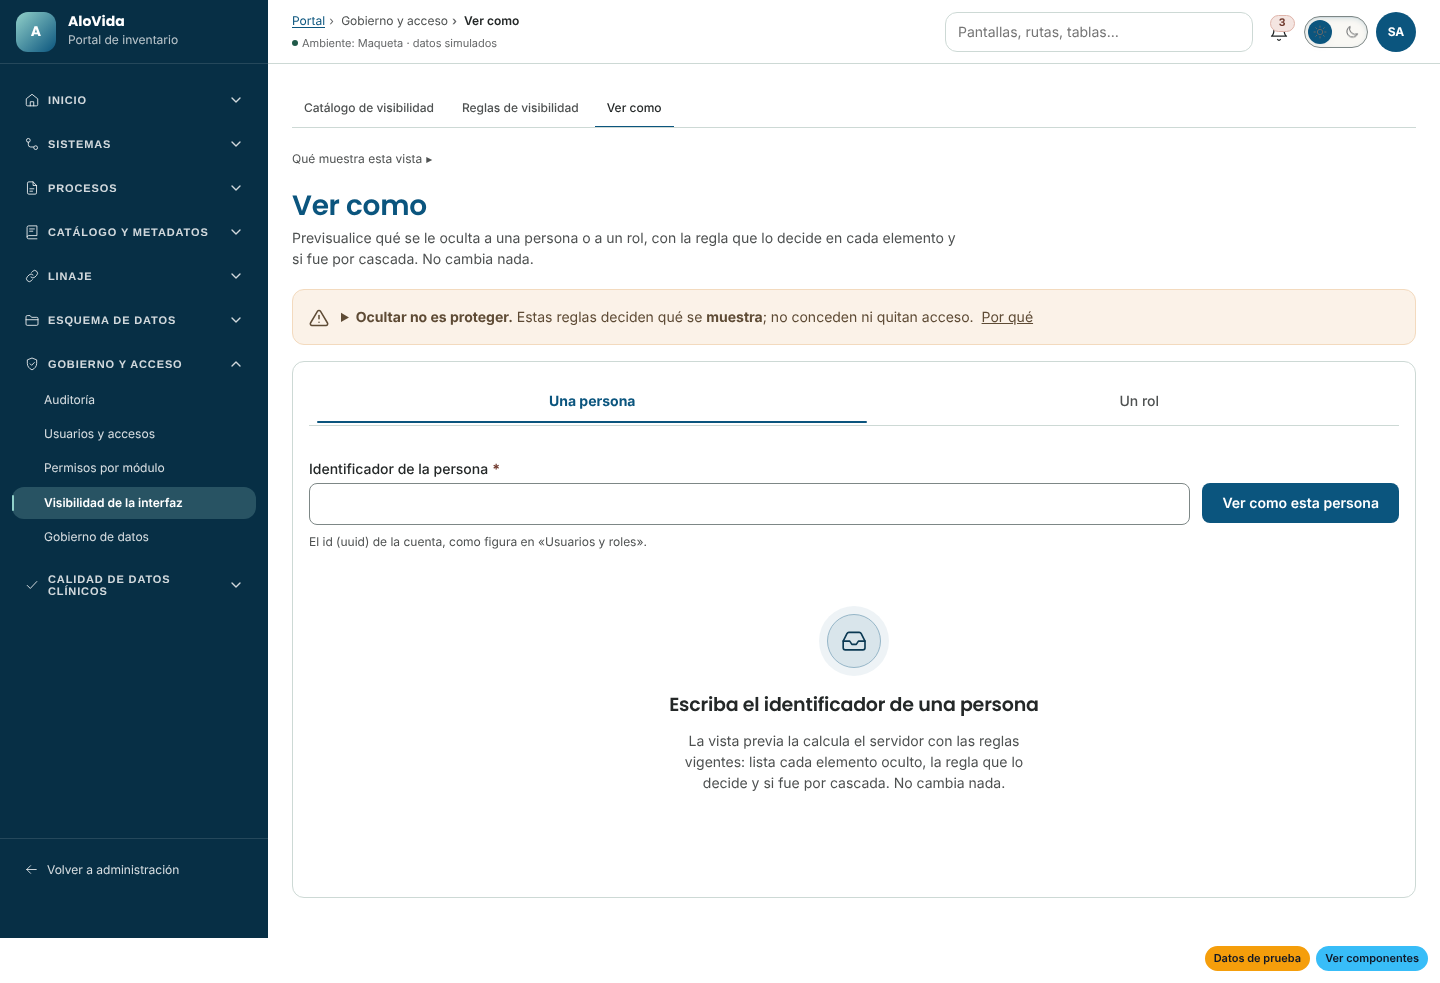
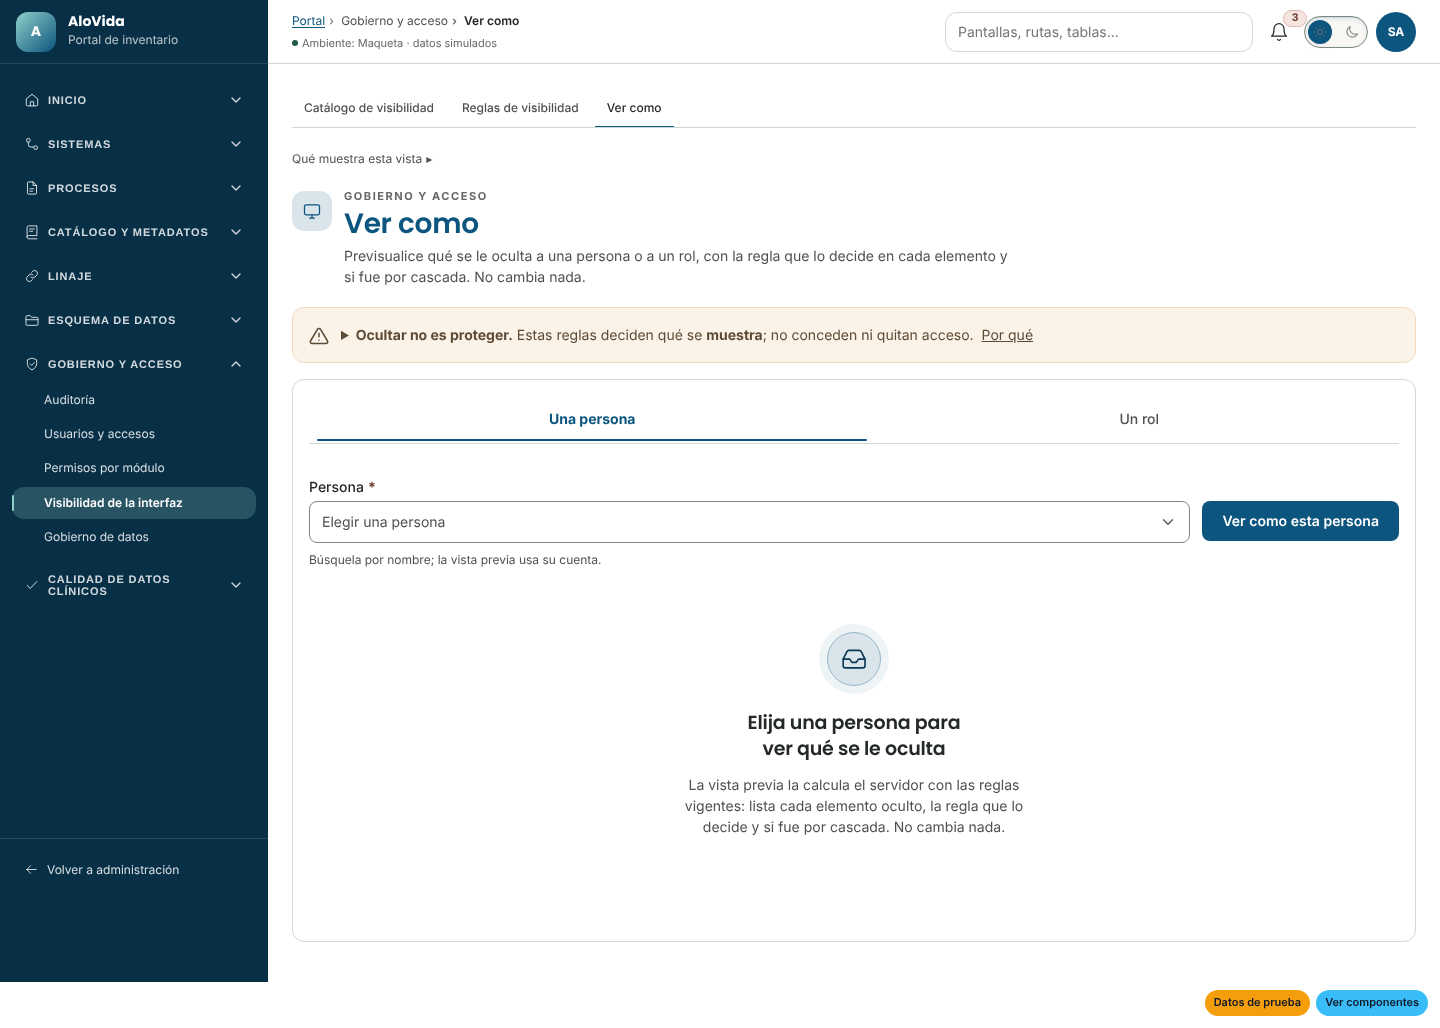
fix(portal): «Ver como» — la persona se elige por nombre y el rol se ve con su nombre (revisión visual 1)
- Selector buscable de personas internas (el mismo listado que el simulador de «Quién puede
  qué»); si no llega, vuelve a pedir el identificador a mano. Spec nueva que lo prueba.
- KPIs con icono, en dos columnas (la primera a lo ancho) hasta 1024 px.
- Simulador: PHARMACY_STAFF («Personal de farmacia») entre los roles de /authz/roles, que
  usan las reglas sintéticas de visibilidad.

Claude-Session: https://claude.ai/code/session_015srVoda962hL6gd5RrH9vw

diff --git a/src/app/features/admin/portal/visibility/preview/preview-panel.ts b/src/app/features/admin/portal/visibility/preview/preview-panel.ts
@@ -98,6 +98,17 @@ export class PreviewPanel {
     if (options === null || target === '' || options.some((o) => o.value === target)) return options;
     return [...options, { value: target, label: `${target} (no figura entre los roles asignables)` }];
   });
+  /**
+   * Las personas internas, para elegir por nombre (el mismo listado que usa el simulador de
+   * «Quién puede qué»). Si no llega, el campo vuelve a pedir el identificador a mano.
+   */
+  private readonly users = signal<readonly SelectOption<string>[] | null>(null);
+  protected readonly userOptions = computed<readonly SelectOption<string>[] | null>(() => {
+    const options = this.users();
+    const target = this.target();
+    if (options === null || target === '' || options.some((o) => o.value === target)) return options;
+    return [...options, { value: target, label: `${target} (no figura en el listado de personas)` }];
+  });
   protected readonly subjectName = (label: string): string =>
     this.mode() === 'ROLE' ? (this.roleNames().get(label) ?? label) : label;
   protected readonly state = signal<ViewState<readonly PreviewRow[]> | null>(null);
@@ -114,11 +125,13 @@ export class PreviewPanel {
 
   protected readonly copy = computed(() =>
     this.mode() === 'USER'
-      ? {
-          label: 'Identificador de la persona',
-          hint: 'El id (uuid) de la cuenta, como figura en «Usuarios y roles».',
-          action: 'Ver como esta persona',
-        }
+      ? this.users() !== null
+        ? { label: 'Persona', hint: 'Búsquela por nombre; la vista previa usa su cuenta.', action: 'Ver como esta persona' }
+        : {
+            label: 'Identificador de la persona',
+            hint: 'El id (uuid) de la cuenta, como figura en «Usuarios y roles».',
+            action: 'Ver como esta persona',
+          }
       : { label: 'Rol', hint: 'Qué le queda oculto a quien tenga este rol y nada más.', action: 'Ver como este rol' },
   );
 
@@ -181,7 +194,21 @@ export class PreviewPanel {
       },
       error: () => this.roles.set(null),
     });
-    inject(DestroyRef).onDestroy(() => rolesSub.unsubscribe());
+    const usersSub = this.authz.internalUsers({ limit: 200 }).subscribe({
+      next: (page) =>
+        this.users.set(
+          page.items.length === 0
+            ? null
+            : [...page.items]
+                .sort((a, b) => a.displayName.localeCompare(b.displayName, 'es'))
+                .map((u) => ({ value: u.id, label: u.displayName })),
+        ),
+      error: () => this.users.set(null),
+    });
+    inject(DestroyRef).onDestroy(() => {
+      rolesSub.unsubscribe();
+      usersSub.unsubscribe();
+    });
     effect(() => {
       const preset = this.preset();
       untracked(() => {

diff --git a/src/app/features/admin/portal/visibility/preview/ui-preview-page.spec.ts b/src/app/features/admin/portal/visibility/preview/ui-preview-page.spec.ts
@@ -63,7 +63,8 @@ describe('UiPreviewPage', () => {
   let harness: RouterTestingHarness;
   let http: HttpTestingController;
 
-  async function open(url = SCREEN): Promise<void> {
+  /** Por omisión el listado de personas llega vacío: el campo pide el identificador a mano. */
+  async function open(url = SCREEN, people: readonly { id: string; displayName: string }[] = []): Promise<void> {
     TestBed.configureTestingModule({
       providers: [
         provideHttpClient(),
@@ -76,6 +77,13 @@ describe('UiPreviewPage', () => {
     await harness.navigateByUrl(url, UiPreviewPage);
     harness.detectChanges();
     http.match((r) => r.url === ELEMENTS).forEach((r) => r.flush({ items: ELEMENT_LIST, nextCursor: null, total: 4 }));
+    http.match((r) => r.url === '/authz/internal-users').forEach((r) =>
+      r.flush({
+        items: people.map((p) => ({ ...p, statusConceptId: 'active', globalRoles: [], assignments: [] })),
+        nextCursor: null,
+        total: people.length,
+      }),
+    );
     http.match('/authz/roles').forEach((r) =>
       r.flush([{ id: 'r-ph', code: 'PHARMACY_STAFF', name: 'Personal de farmacia', isSystem: true, tenantId: null }]),
     );
@@ -112,6 +120,24 @@ describe('UiPreviewPage', () => {
     http.expectNone((r) => r.url === PREVIEW);
     expect(byTestId('visibility-notice')!.textContent).toContain('Ocultar no es proteger');
     expect(text()).toContain('Ver como esta persona');
+  });
+
+  it('con el listado de personas, se elige por nombre (no se pide el uuid) y se consulta su userId', async () => {
+    await open(SCREEN, [
+      { id: USER_ID, displayName: 'Persona sintética (SIMULADO)' },
+      { id: '00000000-0000-4000-8000-00000000c003', displayName: 'Otra persona (SIMULADO)' },
+    ]);
+    expect(text()).toContain('Persona');
+    expect(text()).not.toContain('Identificador de la persona');
+    expect(root().querySelector('input[data-testid="preview-target-USER"]')).toBeNull();
+    panel().target.set(USER_ID);
+    panel().run();
+    const req = http.expectOne((r) => r.url === PREVIEW);
+    expect(req.request.params.get('userId')).toBe(USER_ID);
+    req.flush(PREVIEW_BODY);
+    http.match((x) => x.url === RULES).forEach((r) => r.flush({ items: [WINNER], nextCursor: null, total: 1 }));
+    harness.detectChanges();
+    expect(byTestId('preview-summary')!.textContent).toContain('Persona sintética (SIMULADO)');
   });
 
   it('por persona: manda userId, y para cada oculto muestra la regla ganadora y la cascada con su ancestro', async () => {

diff --git a/src/app/features/admin/portal/visibility/preview/preview-panel.html b/src/app/features/admin/portal/visibility/preview/preview-panel.html
@@ -3,6 +3,16 @@
     <app-form-field [label]="copy().label" [required]="true" [hint]="copy().hint" [errorMessage]="problem()">
       @if (mode() === 'ROLE' && roleOptions(); as options) {
         <app-select [ariaLabel]="copy().label" [options]="options" [value]="target() === '' ? null : target()" (valueChange)="setTarget($event ?? '')" />
+      } @else if (mode() === 'USER' && userOptions(); as options) {
+        <app-select
+          [ariaLabel]="copy().label"
+          placeholder="Elegir una persona"
+          [searchable]="true"
+          [options]="options"
+          [value]="target() === '' ? null : target()"
+          [attr.data-testid]="'preview-target-USER'"
+          (valueChange)="setTarget($event ?? '')"
+        />
       } @else {
         <app-input
           [ariaLabel]="copy().label"
@@ -23,11 +33,12 @@
     <section class="preview__metrics" aria-label="Resumen de lo que ve" data-testid="preview-summary">
       <app-metric-card
         label="Mirando como"
+        icon="eye"
         [value]="subjectName(s.label)"
         [hint]="mode() === 'ROLE' && subjectName(s.label) !== s.label ? 'Rol ' + s.label : ''"
       />
-      <app-metric-card label="Ocultos" [value]="s.hidden" [tone]="s.hidden > 0 ? 'warning' : 'success'" hint="Elementos que no se le presentan" />
-      <app-metric-card label="Por cascada" [value]="s.byCascade" hint="Ocultos porque un elemento superior lo está" />
+      <app-metric-card label="Ocultos" icon="eye-off" [value]="s.hidden" [tone]="s.hidden > 0 ? 'warning' : 'success'" hint="Elementos que no se le presentan" />
+      <app-metric-card label="Por cascada" icon="network" [value]="s.byCascade" hint="Ocultos porque un elemento superior lo está" />
     </section>
     <p class="vis__hint">
       Es una vista previa del servidor: no cambia nada. Los permisos de la persona no cambian por esto; un elemento
@@ -42,7 +53,7 @@
     <!-- Antes de consultar: qué hace esta pestaña y qué hacer, no un hueco en blanco. -->
     <app-empty-state
       data-testid="preview-idle"
-      [title]="mode() === 'ROLE' ? 'Elija un rol para ver qué se le oculta' : 'Escriba el identificador de una persona'"
+      [title]="mode() === 'ROLE' ? 'Elija un rol para ver qué se le oculta' : 'Elija una persona para ver qué se le oculta'"
       description="La vista previa la calcula el servidor con las reglas vigentes: lista cada elemento oculto, la regla que lo decide y si fue por cascada. No cambia nada."
     />
   }

diff --git a/src/app/core/mock/handlers/governance.handlers.ts b/src/app/core/mock/handlers/governance.handlers.ts
@@ -109,6 +109,15 @@ const ROLES: readonly MockRole[] = [
     scope: 'TENANT',
     permissions: [{ permissionId: 'perm-schedule-read', effect: 'ALLOW' }],
   },
+  {
+    // Lo usan las reglas sintéticas de visibilidad («Ver como» por rol): sin él, el rol se veía
+    // sólo por su código. Sin permisos del catálogo de gobierno: es personal de mostrador.
+    id: 'role-pharmacy-staff',
+    code: 'PHARMACY_STAFF',
+    name: 'Personal de farmacia',
+    scope: 'TENANT',
+    permissions: [],
+  },
 ];
 
 /* ---- Usuarios y asignaciones --------------------------------------------- */
